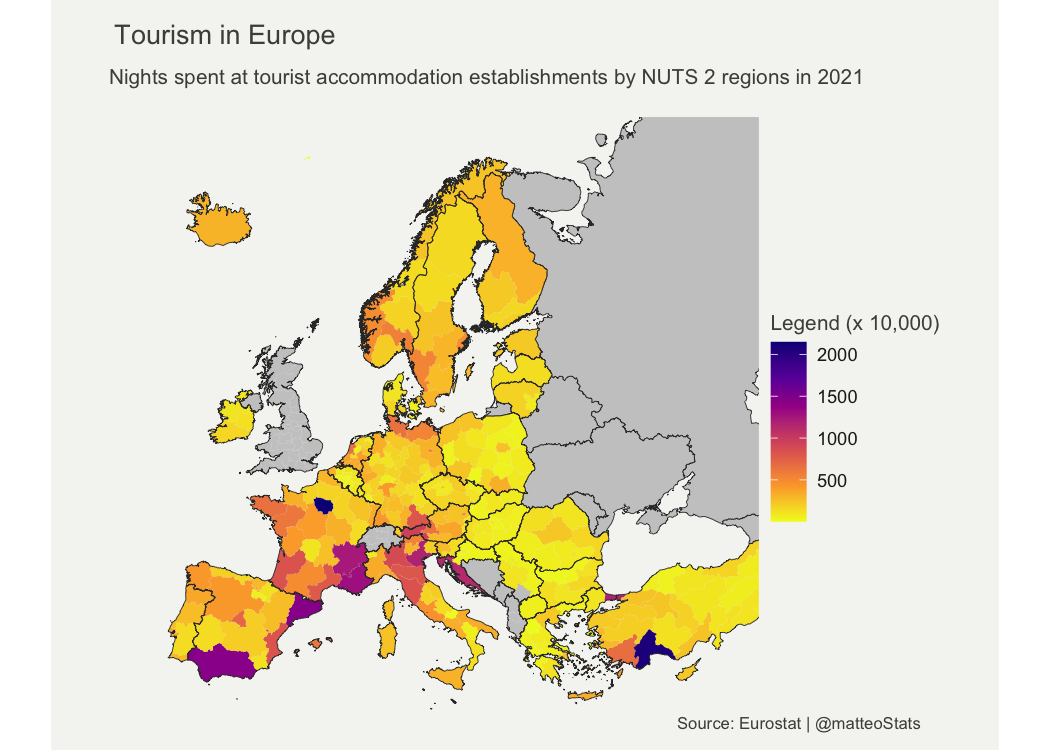
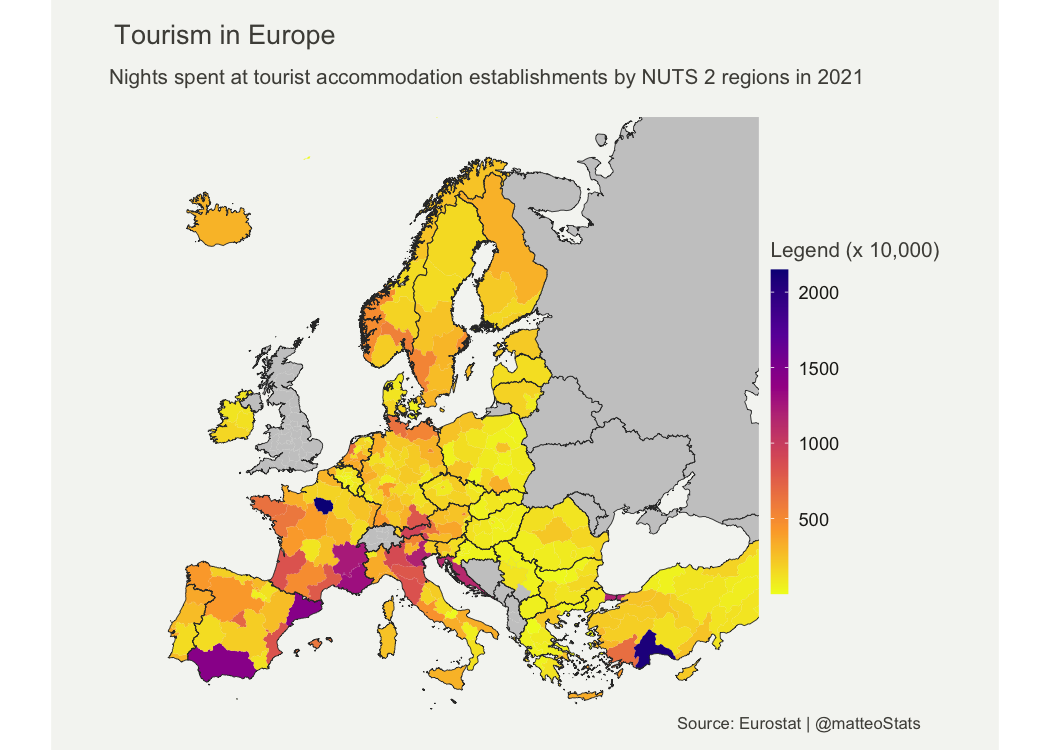
changed legends continuous

Changed region(s): [[0.7314, 0.3067, 0.8838, 0.7973]]

diff --git a/Cloropleth Maps/README.md b/Cloropleth Maps/README.md
@@ -351,8 +351,9 @@ tourism_eu_map <- ggplot() +
         plot.caption = element_text( size=8, color = "#4e4d47", 
                                  margin = margin(b = 0.3, r=-99, unit = "cm"),
                                  hjust = 1.4),
-        legend.position = "right",
-        legend.title = element_text(color = "#4e4d47", size = 10))+
+        legend.title = element_text(color = "#4e4d47", size = 10),
+        legend.key.height= unit(1.1, 'cm'),
+        legend.key.width= unit(0.3, 'cm'))+
   
   scale_fill_viridis_c(option = "plasma", direction = -1, na.value = "#cacaca")+
   labs(
@@ -632,7 +633,9 @@ tourism_eu_map_div <- ggplot() +
                                  margin = margin(b = 0.3, r=-99, unit = "cm"),
                                  hjust = 1.4),
         legend.position = "right",
-        legend.title = element_text(color = "#4e4d47", size = 10))+
+        legend.title = element_text(color = "#4e4d47", size = 10),
+        legend.key.height= unit(1.1, 'cm'),
+        legend.key.width= unit(0.3, 'cm'))+
   
   # use scale_fill_gradient2() for diverging color scale
   scale_fill_gradient2(low = "#0000AF",mid = "white", high = "#bf3b3b", 
